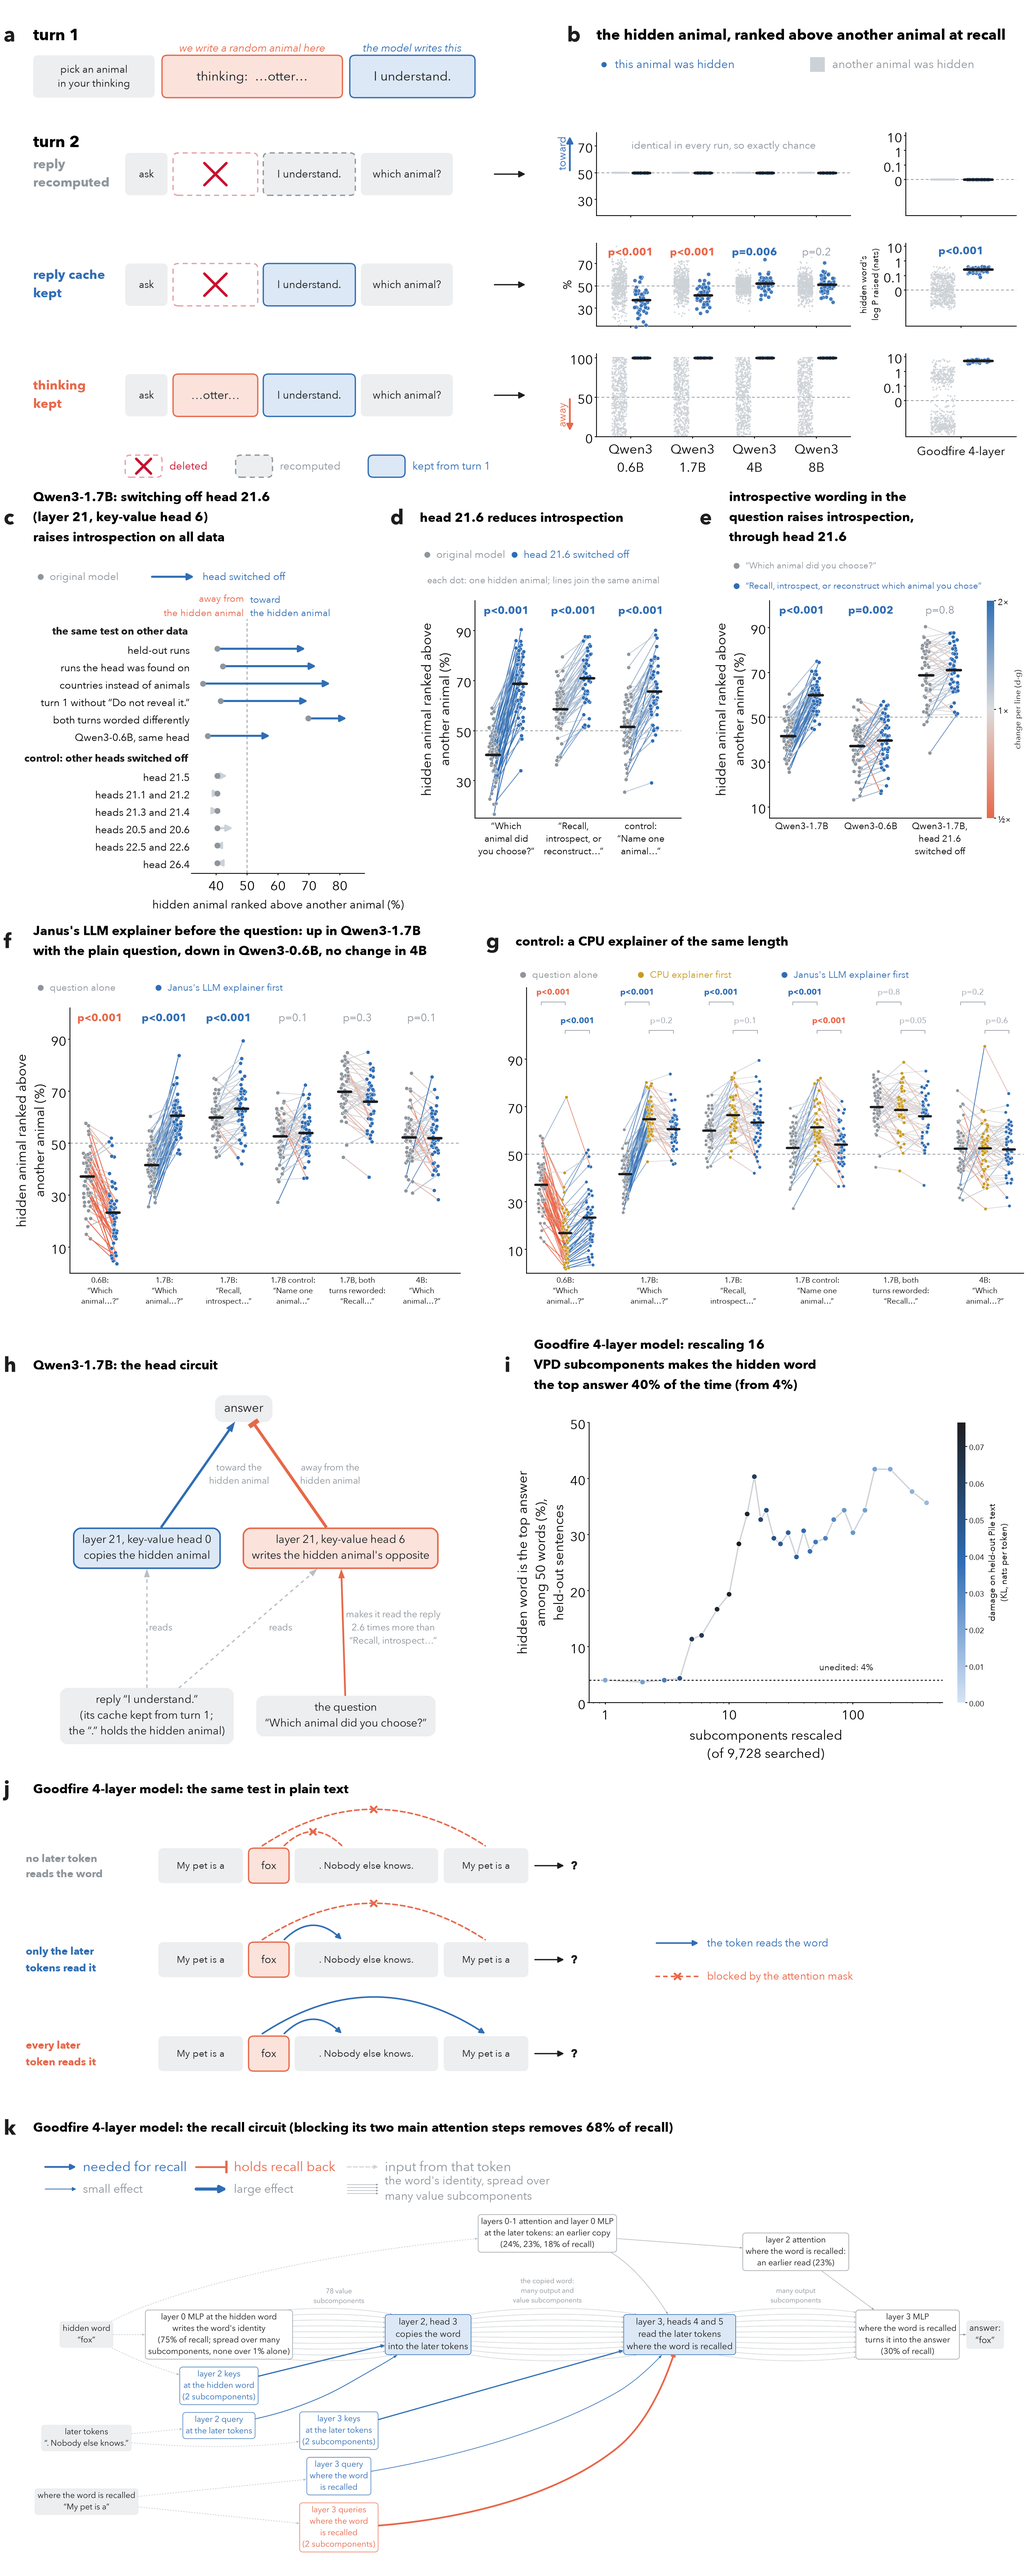
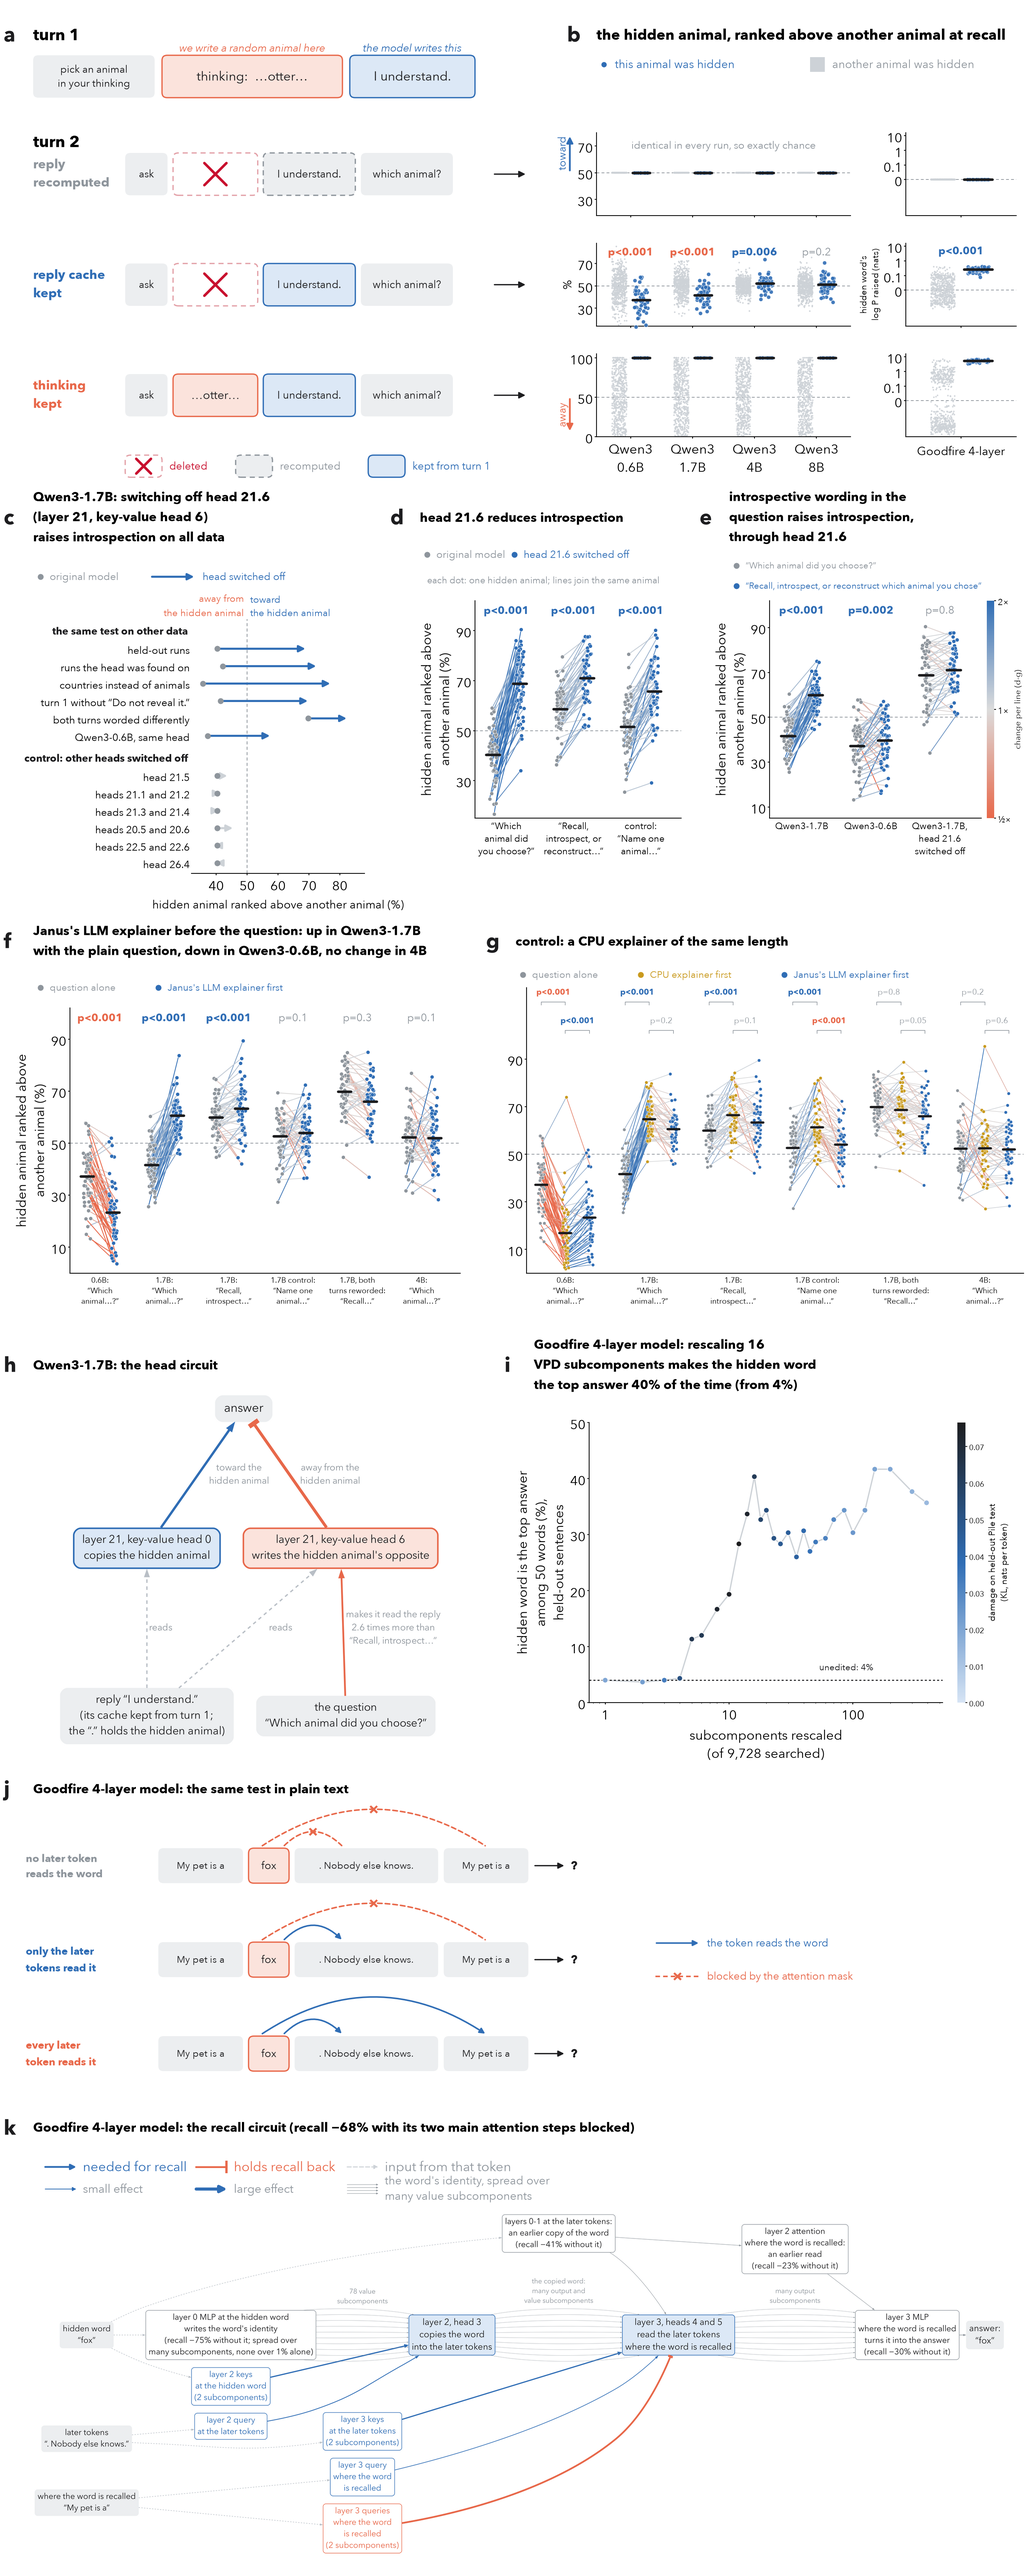
Panel k: one number per box, each the change in recall when that stage alone is removed ("recall -X% without it"); the earlier copy measured as its three blocks removed together (-41%); the stages are in series, so the numbers overlap

Changed region(s): [[0.1554, 0.8421, 0.5593, 0.998], [0.5593, 0.9044, 0.6836, 0.9356], [0.7457, 0.8732, 0.8079, 0.9044]]

diff --git a/circuit_dot.py b/circuit_dot.py
@@ -55,8 +55,8 @@ def gates_dot(g, routes):
     """Parts named by layer, matrix and position: every query or key subcomponent whose removal moves the hidden word's
     raise (its log P relative to its mean within the template) by at least 10% (fourlayer/attention_gates.py); a part
     of two subcomponents takes the larger effect.  Wire width grows with that change.  The stages that carry the word
-    (fourlayer/mlp_routes.py, routes): each labeled with the share of the raise its word-specific output carries (the
-    output set to its mean over the template's words).
+    (fourlayer/mlp_routes.py, routes): each labeled with the change in the raise when its word-specific output is
+    removed (set to its mean over the template's words), alone; the stages are in series, so these do not add.
     Returns the dot source and the bundles' (label node, tail, head) for render(snap=...)."""
     eff = {k: 100 * v["raise_change_share"] for k, v in g["gates"].items()}
     missing = [k for k in DRAWN if k not in eff]
@@ -69,7 +69,8 @@ def gates_dot(g, routes):
     part = f'style="rounded,filled", fillcolor="white", penwidth=2.2'
     head = f'style="rounded,filled,bold", fillcolor="{PALE_BLUE}", color="{BLUE}", fontcolor="{INK}", fontsize=40, penwidth=2.6'
 
-    share = lambda key: f"{-100 * routes['blocks'][key]['raise']:.0f}%"
+    share = lambda key: f"\u2212{-100 * routes['blocks'][key]['raise']:.0f}%"
+    combo = lambda key: f"\u2212{-100 * routes['combos'][key]['raise']:.0f}%"
     biggest = max(-v["raise"] for v in routes["parts"].values())
     stage = f'style="rounded,filled", fillcolor="white", color="{SLATE}", fontcolor="{INK}", penwidth=2.2'
     snap = []
@@ -95,10 +96,10 @@ def gates_dot(g, routes):
     q3 [label="layer 3 query\nwhere the word\nis recalled", color="{BLUE}", fontcolor="{BLUE}", {part}];
     b3 [label="layer 3 queries\nwhere the word\nis recalled\n(2 subcomponents)", color="{CORAL}", fontcolor="{CORAL}", {part}]; }}
   h3 [label="layer 3, heads 4 and 5\nread the later tokens\nwhere the word is recalled", {head}];
-  m0 [label="layer 0 MLP at the hidden word\nwrites the word's identity\n({share('0.mlp@word')} of recall; spread over many\nsubcomponents, none over {100 * biggest:.0f}% alone)", {stage}];
-  early [label="layers 0-1 attention and layer 0 MLP\nat the later tokens: an earlier copy\n({share('0.attn@later')}, {share('0.mlp@later')}, {share('1.attn@later')} of recall)", {stage}];
-  read2 [label="layer 2 attention\nwhere the word is recalled:\nan earlier read ({share('2.attn@cue')})", {stage}];
-  m3 [label="layer 3 MLP\nwhere the word is recalled\nturns it into the answer\n({share('3.mlp@cue')} of recall)", {stage}];
+  m0 [label="layer 0 MLP at the hidden word\nwrites the word's identity\n(recall {share('0.mlp@word')} without it; spread over\nmany subcomponents, none over {100 * biggest:.0f}% alone)", {stage}];
+  early [label="layers 0-1 at the later tokens:\nan earlier copy of the word\n(recall {combo('0.attn@later,0.mlp@later,1.attn@later')} without it)", {stage}];
+  read2 [label="layer 2 attention\nwhere the word is recalled:\nan earlier read\n(recall {share('2.attn@cue')} without it)", {stage}];
+  m3 [label="layer 3 MLP\nwhere the word is recalled\nturns it into the answer\n(recall {share('3.mlp@cue')} without it)", {stage}];
   answer [label="answer:\n“fox”", style="rounded,filled,bold", fillcolor="{PALE_SLATE}", color="{PALE_SLATE}", fontcolor="{INK}", fontsize=40];
   word -> k2 [{info}]; word -> m0 [{info}]; later -> q2 [{info}]; later -> k3 [{info}]; cue -> q3 [{info}]; cue -> b3 [{info}];
   word -> early [{info}];

diff --git a/fourlayer/mlp_routes.py b/fourlayer/mlp_routes.py
@@ -12,7 +12,7 @@ step); heads 3.4 and 3.5 from the last cue token to the later tokens (the read s
   top         the --top parts by effect, also removed outright (output minus (x.v) u); their KL on held-out Pile text
               with the part removed at every position comes from suspects.py
 Each stage can be split over processes: --stage blocks|parts|top --shard K --nshard N writes OUT with .STAGE.K.json;
---stage merge combines the shards.
+--stage merge combines the shards; --stage combo --combo B,... adds several blocks averaged out together to OUT.
 usage: mlp_routes.py --stage blocks --shard 0 --nshard 4 ... then --stage merge --out mlp_routes.json
 """
 import argparse
@@ -38,7 +38,8 @@ def main():
     ap.add_argument("--cands", type=int, default=40, help="candidates per matrix and block")
     ap.add_argument("--top", type=int, default=8)
     ap.add_argument("--out", default=os.path.join(RESULTS, "mlp_routes.json"))
-    ap.add_argument("--stage", default="blocks", choices=["blocks", "parts", "top", "merge"])
+    ap.add_argument("--stage", default="blocks", choices=["blocks", "parts", "top", "merge", "combo"])
+    ap.add_argument("--combo", default="", help="blocks averaged out together, e.g. 0.attn@later,0.mlp@later (stage combo)")
     ap.add_argument("--shard", type=int, default=0)
     ap.add_argument("--nshard", type=int, default=1)
     a = ap.parse_args()
@@ -125,6 +126,15 @@ def main():
                 out["unedited"] = d["unedited"]
                 out[st].update(d[st])
         json.dump(out, open(a.out, "w"), indent=1)
+        return
+    if a.stage == "combo":
+        base = run()
+        spec = [(int(b.split(".")[0]), b.split(".")[1].split("@")[0], b.split("@")[1]) for b in a.combo.split(",")]
+        r = rel(run(block_mean=spec), base)
+        d = json.load(open(a.out))
+        d.setdefault("combos", {})[a.combo] = r
+        json.dump(d, open(a.out, "w"), indent=1)
+        print(f"  {a.combo} together: raise {100 * r['raise']:+.1f}%", flush=True)
         return
     acts = {}
     base = run(acts=acts)

diff --git a/figure_main.py b/figure_main.py
@@ -634,7 +634,7 @@ def row_circuit(cv, parts, y0):
     cv.letter(0.1, top - 0.75, "k")
     stress = json.load(open(os.path.join(os.path.dirname(parts), "stress_circuit.json")))
     share = 1 - stress["routes"]["circuit blocked"]["raise"] / stress["unedited"]["raise"]    # blocking both steps
-    cv.S.text(0.9, top - 0.75, f"Goodfire 4-layer model: the recall circuit (blocking its two main attention steps removes {100 * share:.0f}% of recall)",
+    cv.S.text(0.9, top - 0.75, f"Goodfire 4-layer model: the recall circuit (recall \u2212{100 * share:.0f}% with its two main attention steps blocked)",
               fontsize=25, weight="bold", va="center", linespacing=1.15)
     key(cv, 1.2, top - 1.8)
     routes = json.load(open(os.path.join(os.path.dirname(parts), "mlp_routes.json")))
